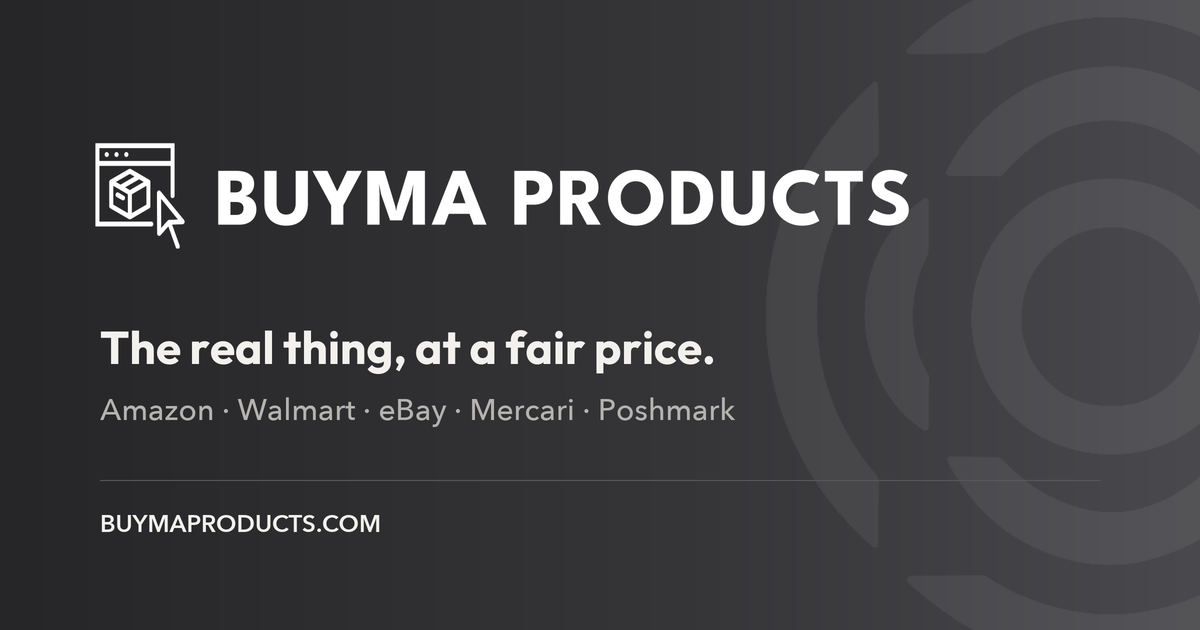
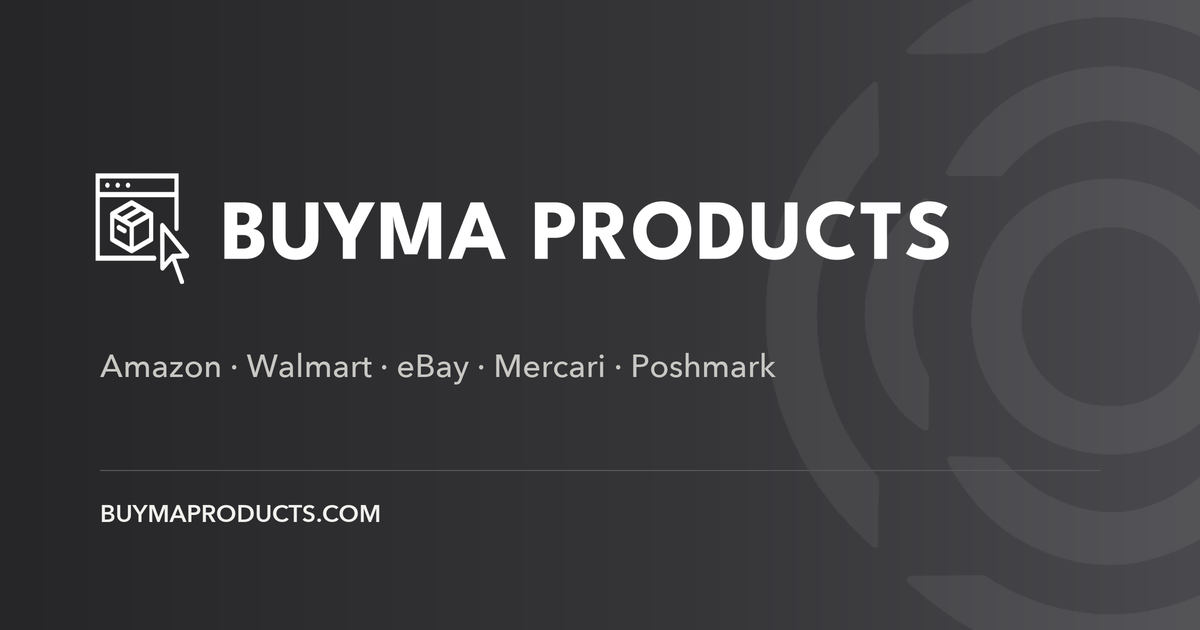
Drop the hero slogan: the wordmark leads, then what we do

diff --git a/index.html b/index.html
@@ -15,7 +15,7 @@
 <meta property="og:type" content="website">
 <meta property="og:site_name" content="Buyma Products LLC">
 <meta property="og:title" content="Buyma Products LLC">
-<meta property="og:description" content="The real thing, at a fair price. Genuine brand-name products on Amazon, Walmart, eBay and more.">
+<meta property="og:description" content="Genuine brand-name products on Amazon, Walmart, eBay and more.">
 <meta property="og:url" content="https://buymaproducts.com/">
 <meta property="og:image" content="https://buymaproducts.com/assets/og.png">
 <meta property="og:image:width" content="1200">
@@ -59,8 +59,7 @@
     </div>
 
     <div class="hero-body">
-      <img class="lockup" src="/assets/wordmark-white.png" alt="Buyma Products" width="2095" height="287">
-      <h1>The real thing,<br> at a fair price.</h1>
+      <h1 class="brand-h1"><img class="lockup" src="/assets/wordmark-white.png" alt="Buyma Products" width="2095" height="287"></h1>
       <p class="lead">Buyma Products LLC is an independent online retailer of genuine brand-name products. Everything we sell is bought from established retailers and distributors, priced fairly, and sold on the marketplaces you already trust: Amazon, Walmart, eBay, Mercari and Poshmark.</p>
       <div class="cta">
         <a class="btn btn-light" href="https://www.amazon.com/s?me=A3UGXQ8UREJ1LC">Shop our Amazon store</a>

diff --git a/style.css b/style.css
@@ -65,7 +65,8 @@ h1,.statement,.feature blockquote{text-wrap:balance}
 .hero-body{position:relative;z-index:1;padding:clamp(44px,8vw,100px) 0 clamp(44px,6vw,76px)}
 .lockup{width:min(680px,100%);margin-bottom:clamp(34px,5.5vw,60px)}
 .hero h1{color:var(--on-dark);font-size:clamp(36px,5.6vw,66px);line-height:1.03;max-width:12.5em}
-.hero .lead{color:var(--on-dark-2);font-size:clamp(17px,1.7vw,19px);max-width:35em;margin-top:22px}
+.hero .brand-h1{margin:0;font-size:0;line-height:0;max-width:none}
+.hero .lead{color:var(--on-dark);font-size:clamp(18px,2vw,23px);line-height:1.55;max-width:33em;margin-top:0}
 .cta{display:flex;flex-wrap:wrap;gap:14px;margin-top:34px}
 .facts-row{position:relative;z-index:1;display:grid;grid-template-columns:repeat(3,1fr);border-top:1px solid var(--on-dark-rule)}
 .fact{padding:26px 24px 32px 0}
